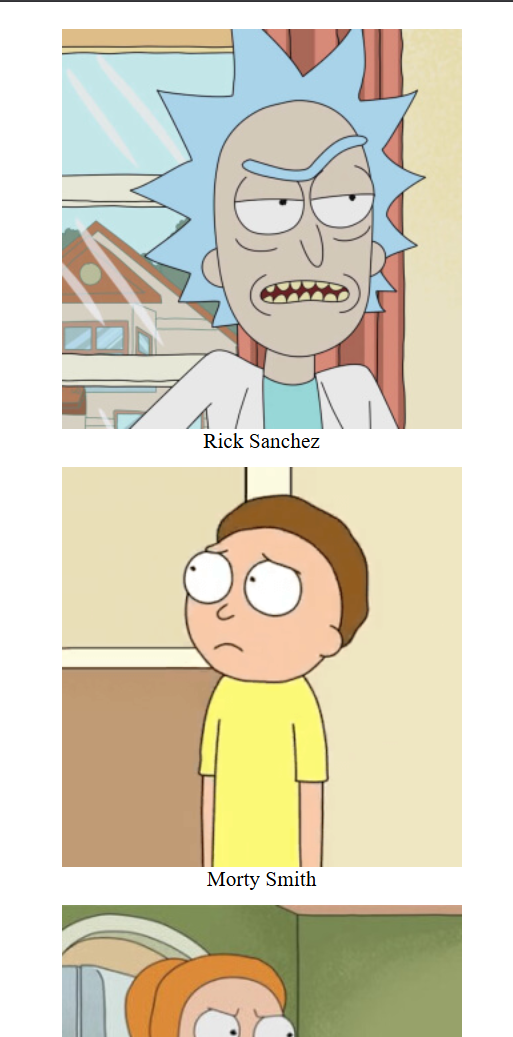
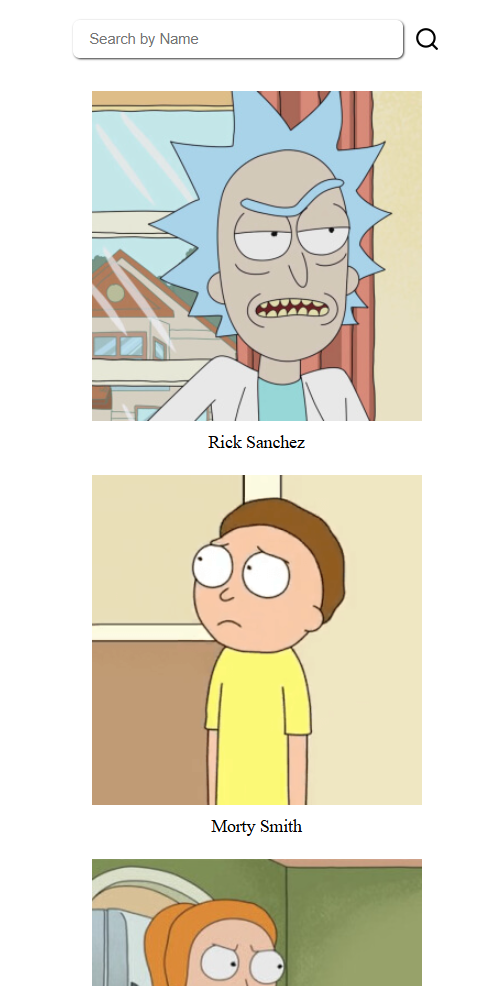
docs: change preview readme.md

diff --git a/readme.md b/readme.md
@@ -3,7 +3,10 @@ This repository contains Javascript DOM Practical Project 3 with fetch data usin
 
 ## Preview
 ![Preview](src/Screenshot.png)
-![Preview](src/Screenshot2.png)
+
+![Preview](src/Screenshot2.png) 
+
+![Preview](src/Screenshot3.png)
 
 ## How to Run this project
 
